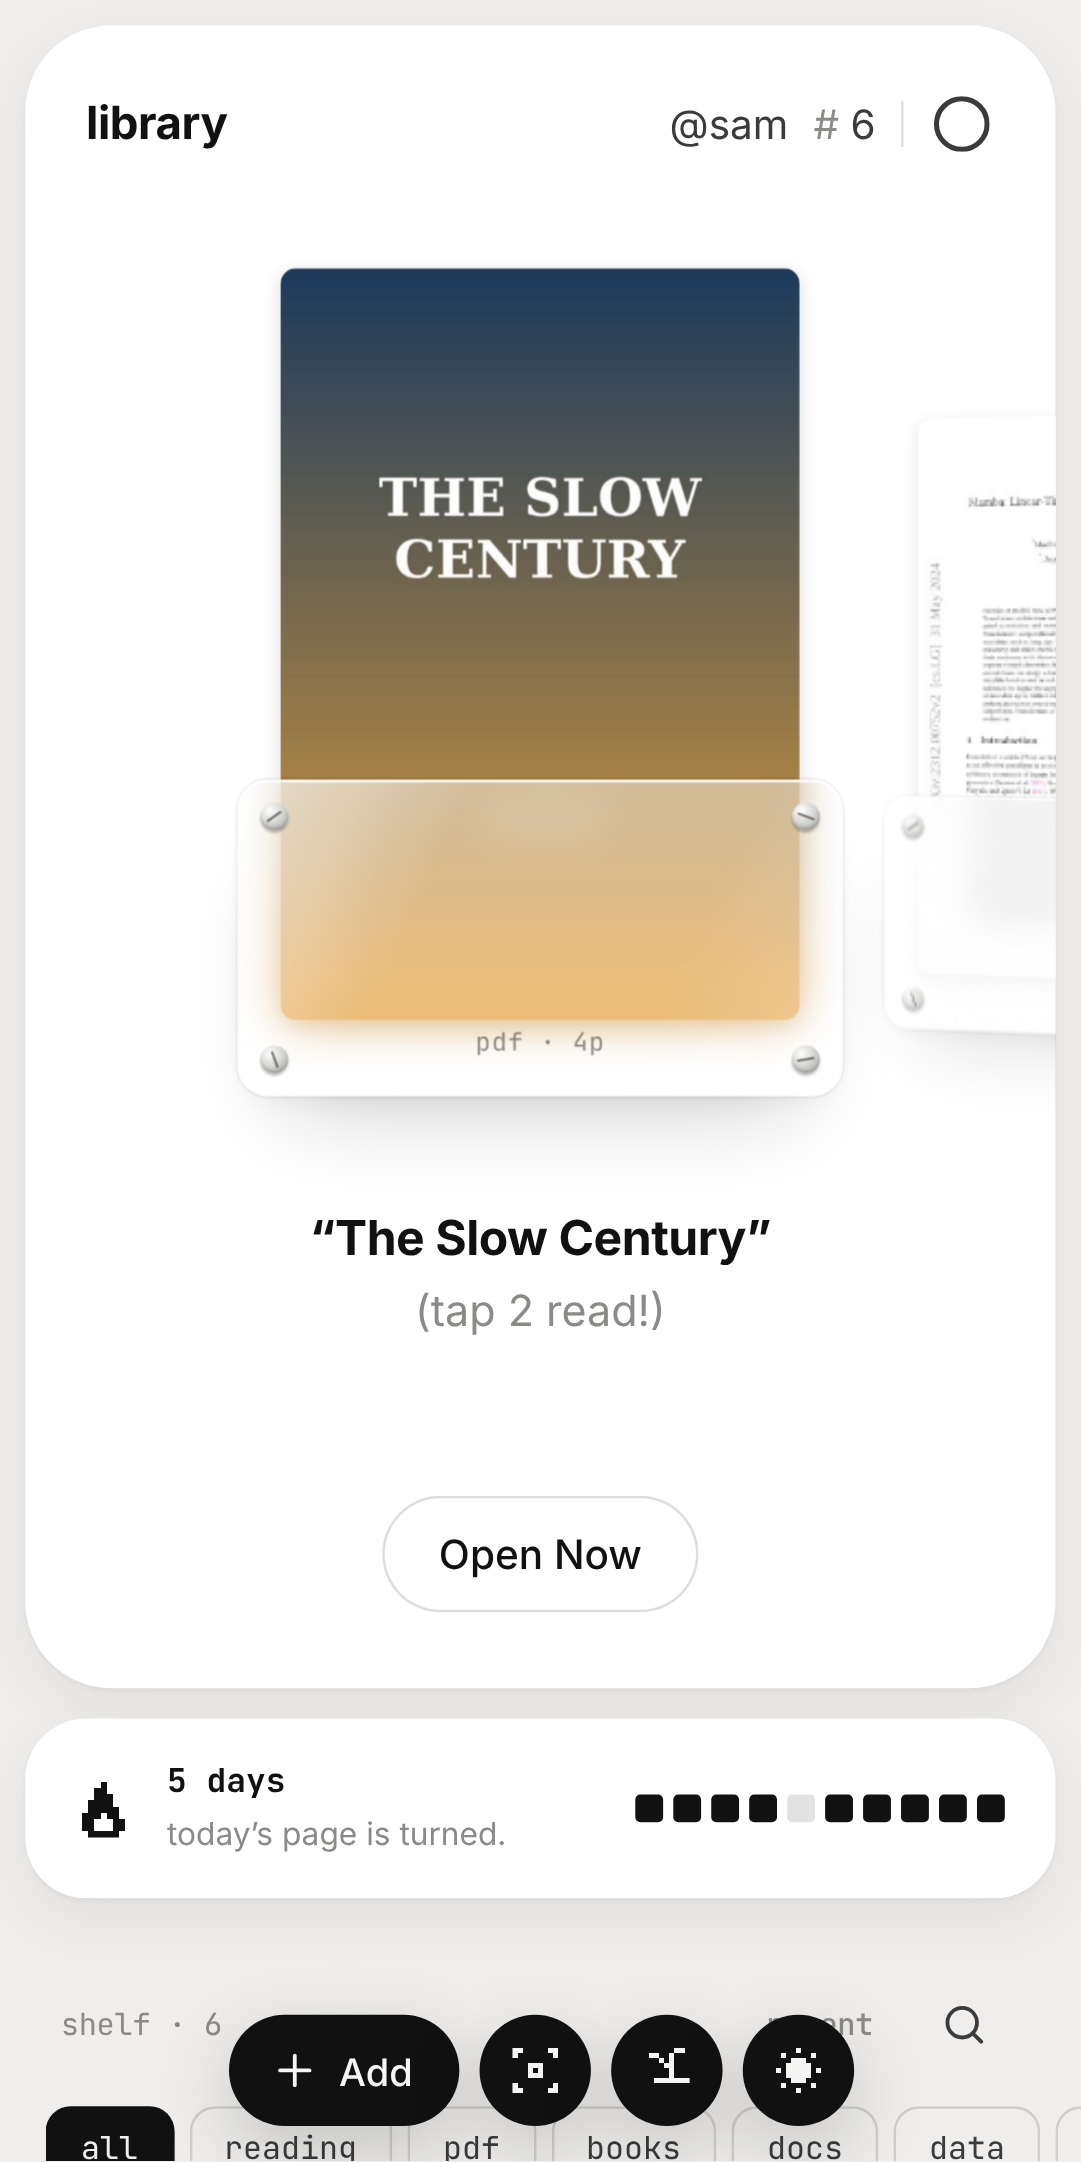
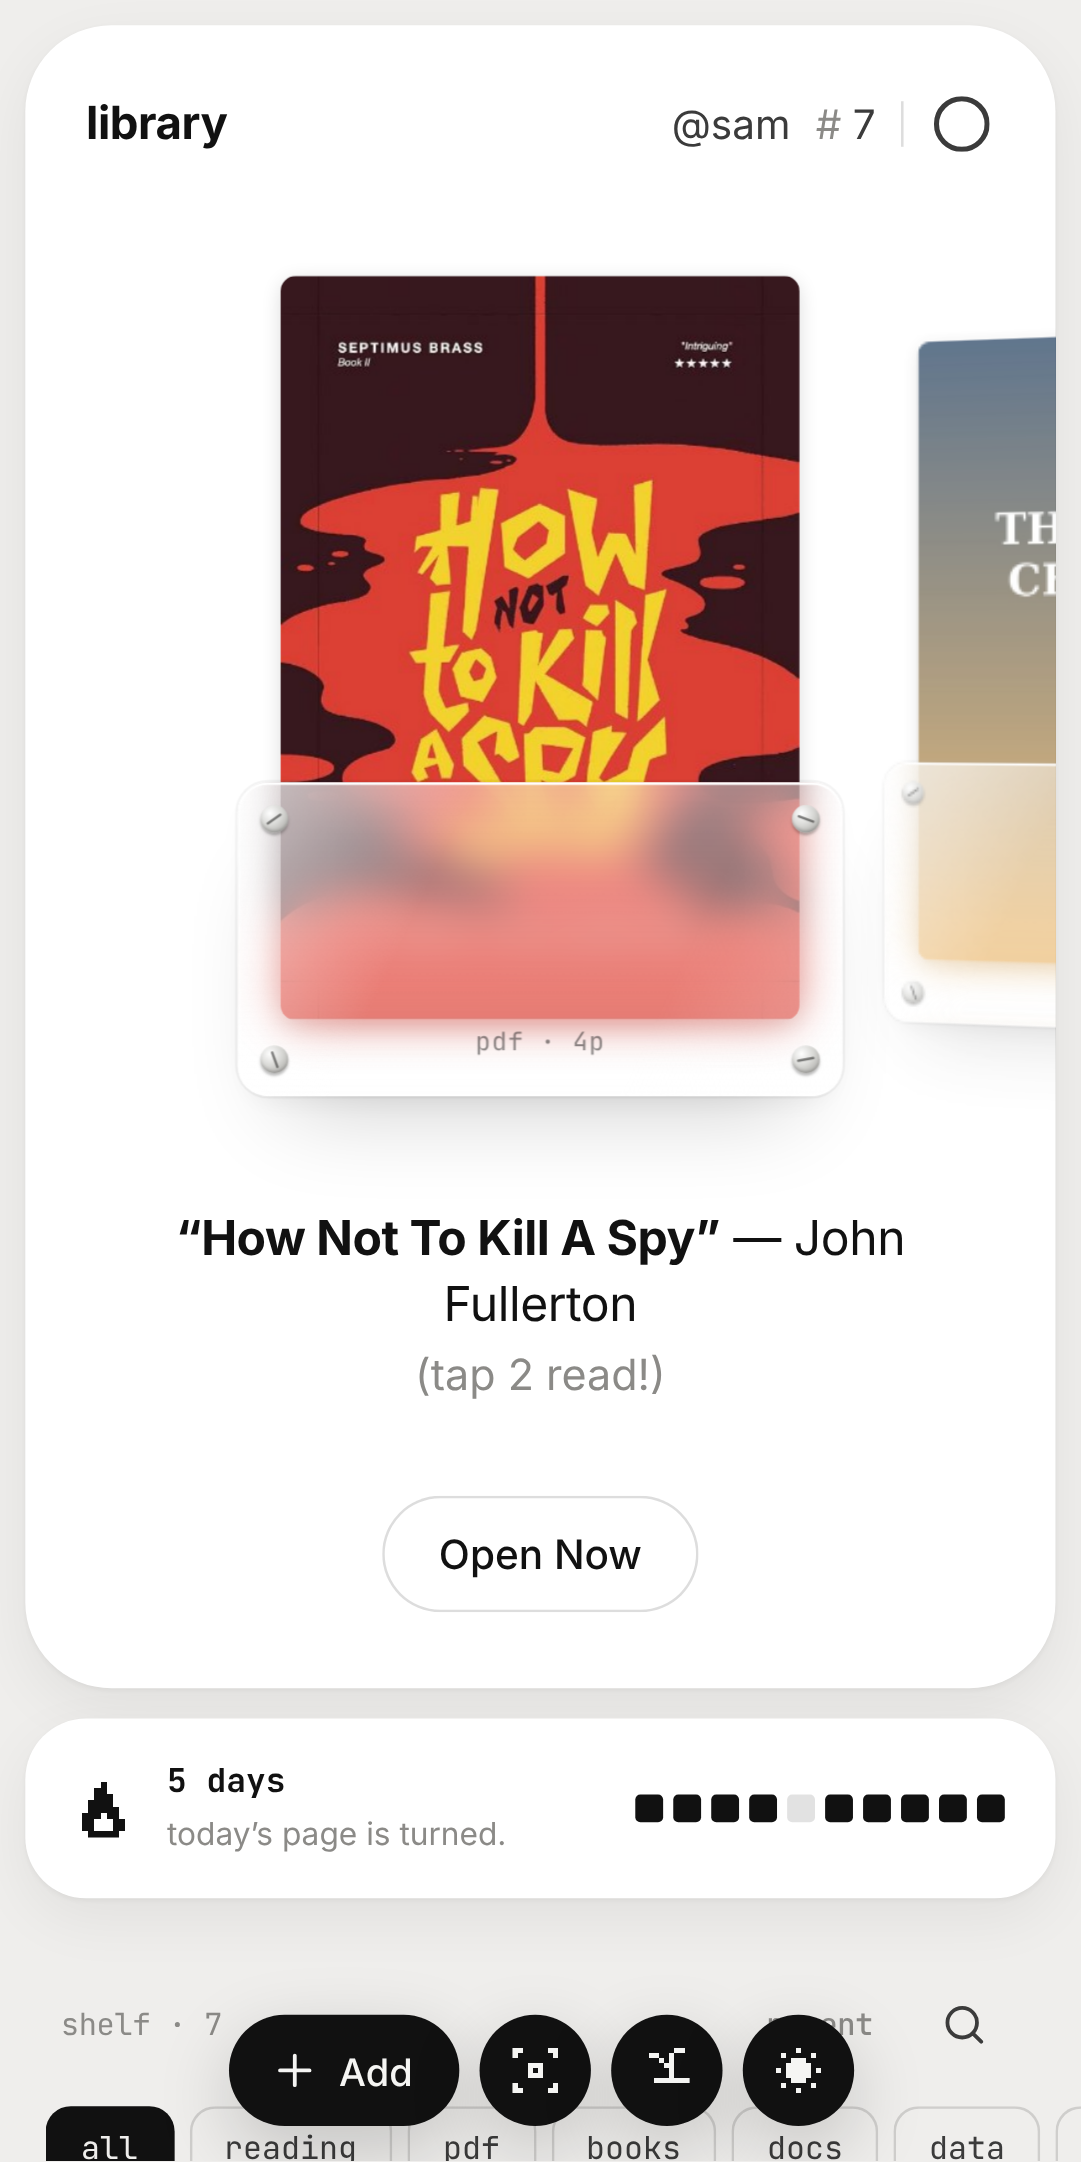
Store images: uploaded cover as library hero, research paper behind streak bubble, reader bars in page mode; more room above Ask messages
Claude-Session: https://claude.ai/code/session_011qrfPfyx21TUrFu3UHvMuX

diff --git a/src/styles/overlays.css b/src/styles/overlays.css
@@ -977,7 +977,7 @@
 .ask-scroll {
   flex: 1;
   overflow-y: auto;
-  padding: 0 18px 8px;
+  padding: 20px 18px 8px;
   display: flex;
   flex-direction: column;
   gap: 10px;
